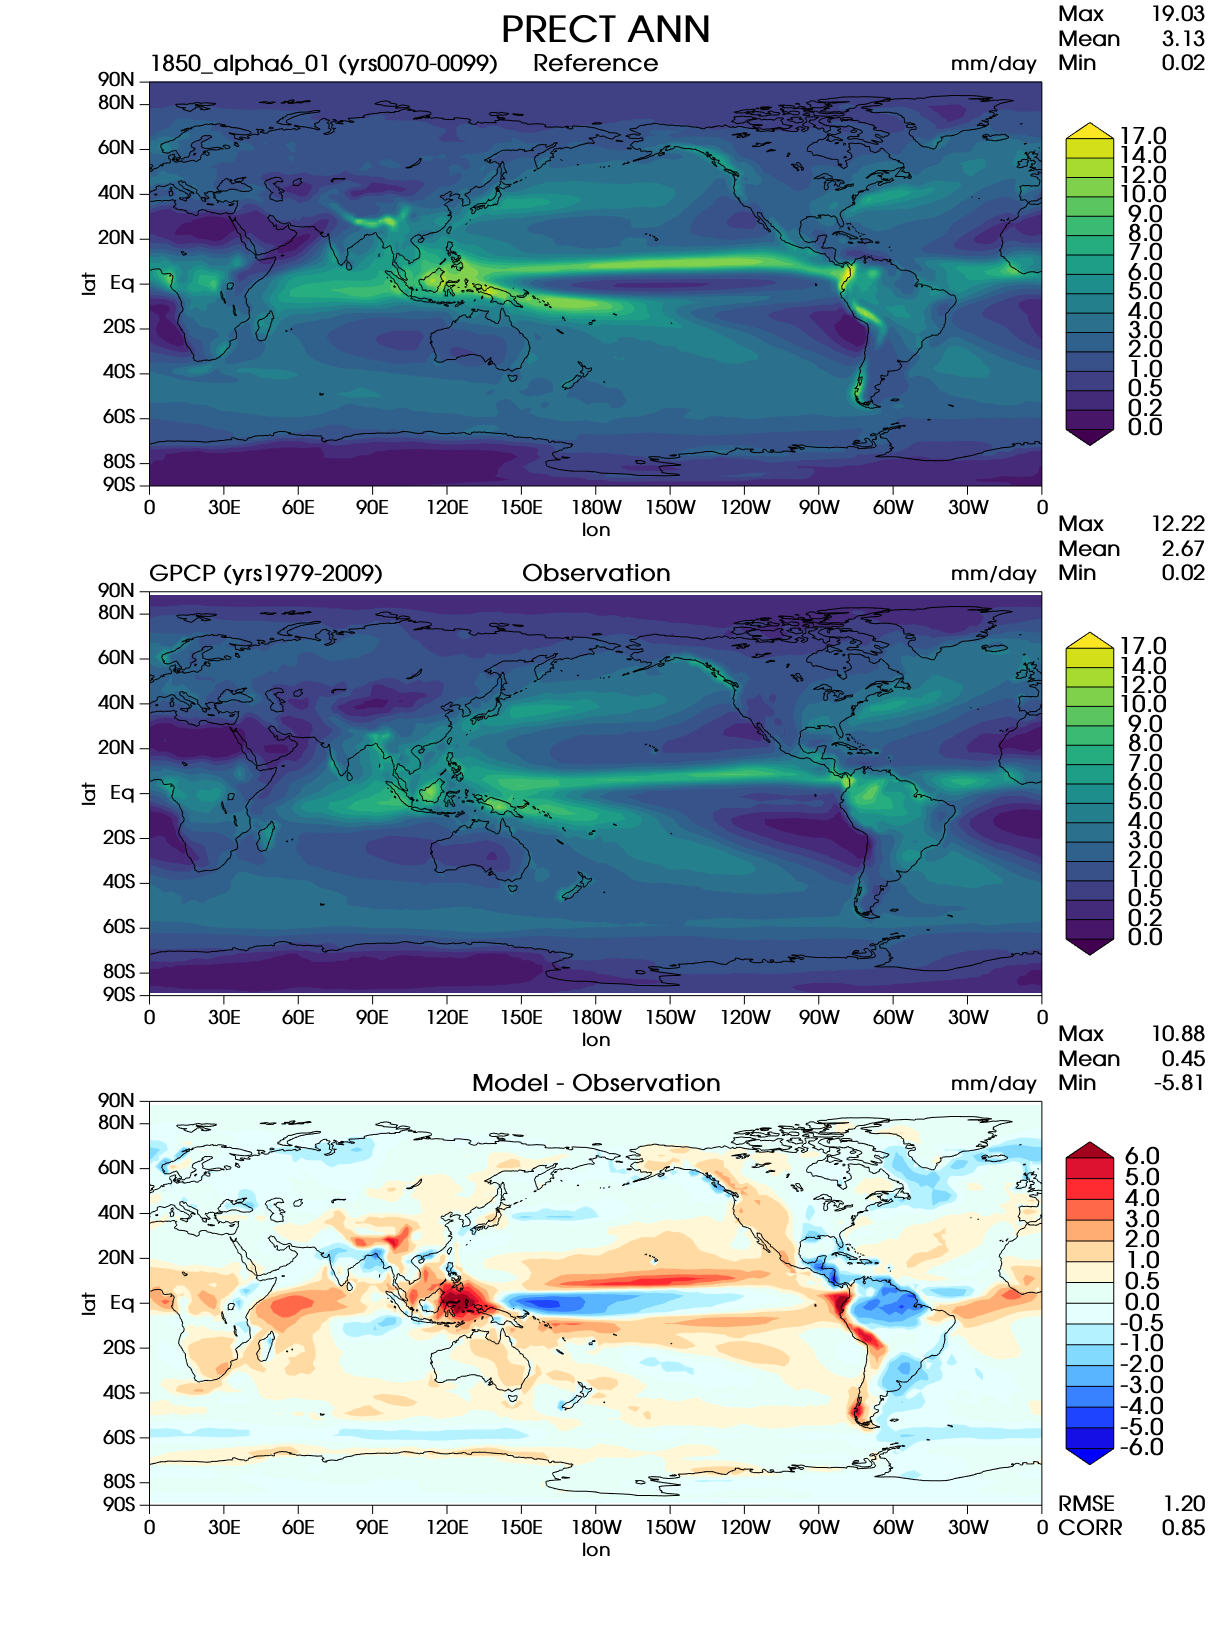
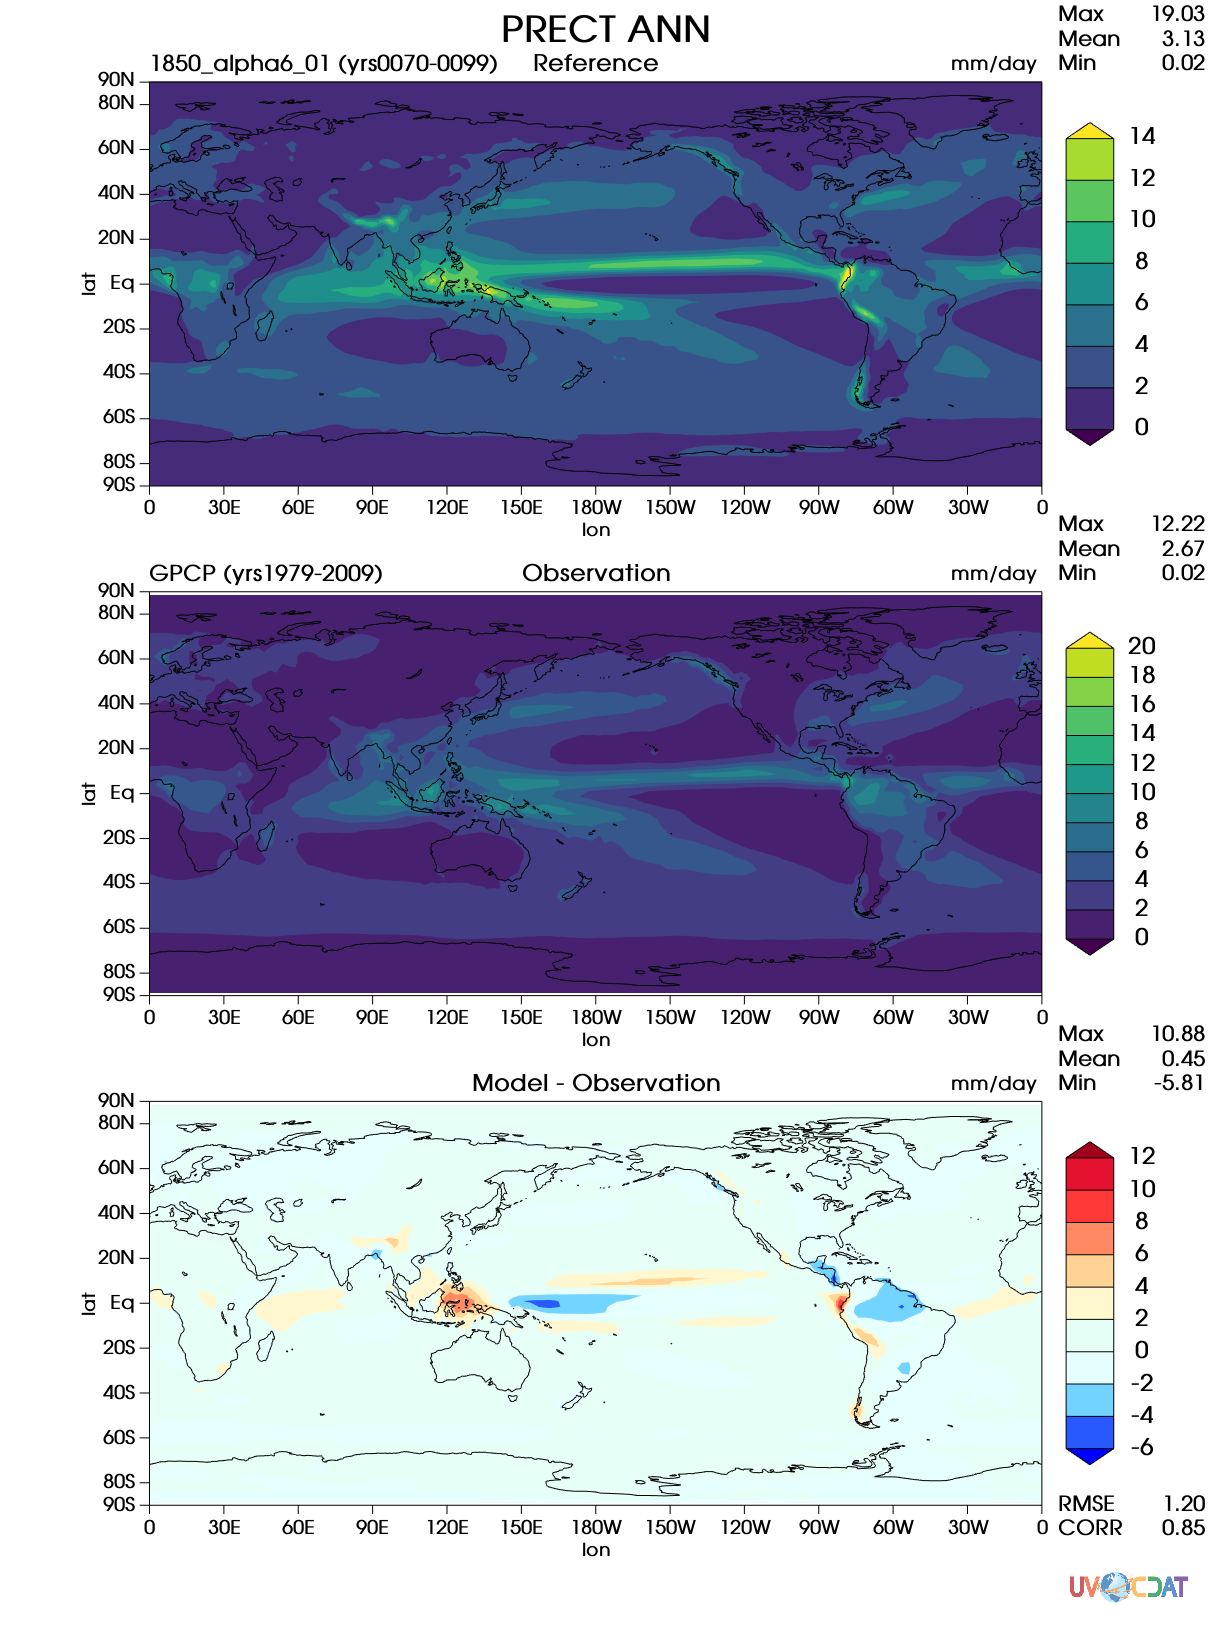
no levels works now.

diff --git a/acme_diags/plotset5/plot_set_5.py b/acme_diags/plotset5/plot_set_5.py
@@ -85,15 +85,15 @@ def plot_rmse_and_corr(canvas, model, obs):
 def set_colormap_of_graphics_method(canvas, parameter_colormap, method):
     if parameter_colormap is not '':
         method.colormap = vcs.getcolormap(parameter_colormap)
-        _fix_levels_on_new_colormap(method)
+        colors = vcs.getcolors(method.levels, colors=range(6, 240))
+        method.fillareacolors = colors
 
-def _fix_levels_on_new_colormap(method):
-    colors = vcs.getcolors(method.levels, colors=range(6, 240))
-    method.fillareacolors = colors
-
-def set_levels_of_graphics_method(method, levels):
+def set_levels_of_graphics_method(method, levels, data):
     if levels != []:
         method.levels = levels
+
+    if method.levels == [[1.0000000200408773e+20, 1.0000000200408773e+20]]:
+        method.levels = vcs.mkscale(data.min(), data.max())
 
 def set_units(ref_or_test, units):
     if units != '':
@@ -138,9 +138,9 @@ def plot(reference, test, reference_regrid, test_regrid, parameter):
     test_isofill = vcs.getisofill('test_isofill')
     diff_isofill = vcs.getisofill('diff_isofill')
 
-    set_levels_of_graphics_method(reference_isofill, parameter.reference_levels)
-    set_levels_of_graphics_method(test_isofill, parameter.test_levels)
-    set_levels_of_graphics_method(diff_isofill, parameter.diff_levels)
+    set_levels_of_graphics_method(reference_isofill, parameter.reference_levels, reference)
+    set_levels_of_graphics_method(test_isofill, parameter.test_levels, test)
+    set_levels_of_graphics_method(diff_isofill, parameter.diff_levels, diff)
 
     if parameter.arrows:
         reference_isofill.ext_1 = True

diff --git a/acme_diags/plotset5/set5parameter.py b/acme_diags/plotset5/set5parameter.py
@@ -21,19 +21,22 @@ main_title = 'PRECT ANN'
 test_name = '1850_alpha6_01 (yrs0070-0099)'
 test_title = 'Reference'
 test_colormap = ''
-test_levels = [0, 0.2, 0.5, 1, 2, 3, 4, 5, 6, 7, 8, 9, 10, 12, 14, 17]
+#test_levels = [0, 0.2, 0.5, 1, 2, 3, 4, 5, 6, 7, 8, 9, 10, 12, 14, 17]
+test_levels = []
 test_units = 'mm/day'
 
 reference_name = 'GPCP (yrs1979-2009)'
 reference_title = 'Observation'
 reference_colormap = ''
-reference_levels = [0, 0.2, 0.5, 1, 2, 3, 4, 5, 6, 7, 8, 9, 10, 12, 14, 17]
+#reference_levels = [0, 0.2, 0.5, 1, 2, 3, 4, 5, 6, 7, 8, 9, 10, 12, 14, 17]
+reference_levels = []
 reference_units = 'mm/day'
 
 diff_name = ''
 diff_title = 'Model - Observation'
 diff_colormap = 'bl_to_darkred'
-diff_levels = [-6, -5, -4, -3, -2, -1, -0.5, 0, 0.5, 1, 2, 3, 4, 5, 6]
+#diff_levels = [-6, -5, -4, -3, -2, -1, -0.5, 0, 0.5, 1, 2, 3, 4, 5, 6]
+diff_levels = []
 diff_units = 'mm/day'
 
 canvas_size_w = 1212

diff --git a/acme_diags/plotset5/make_plot_set_5_json.py b/acme_diags/plotset5/make_plot_set_5_json.py
@@ -146,7 +146,7 @@ isofill.datawc_x1 = 0
 isofill.datawc_x2 = 360
 isofill.datawc_y1 = -90
 isofill.datawc_y2 = 90
-isofill.levels = [0, 0.2, 0.5, 1, 2, 3, 4, 5, 6, 7, 8, 9, 10, 12, 14, 17]
+#isofill.levels = [0, 0.2, 0.5, 1, 2, 3, 4, 5, 6, 7, 8, 9, 10, 12, 14, 17]
 # NOTE: because of the obs and model data files used,
 # there is no 360 degree value, so we use 358 as 0.
 # Same for 0 where we use 2 instead.
@@ -158,8 +158,8 @@ isofill.yticlabels1 = {-90: '90S', -80: '80S', -60: '60S', -40: '40S',
                        80: '80N', 90: '90N'}
 
 # ext_1 and ext_2 are arrows
-isofill.ext_1 = True
-isofill.ext_2 = True
+#isofill.ext_1 = True
+#isofill.ext_2 = True
 isofill.script('plot_set_5_new.json')
 
 isofill = x.createisofill('test_isofill')

diff --git a/acme_diags/plotset5/set5_ANN_PRECT_GPCP_model.py b/acme_diags/plotset5/set5_ANN_PRECT_GPCP_model.py
@@ -80,5 +80,5 @@ elif var == 'T' and plev == 200:
 
 if var == 'T':
     parameter.main_title = ' '.join([var, str(plev), 'mb', season])
-    
+
 plot_set_5.plot(obs_pr, mod_pr, obs_pr_reg, mod_pr_reg, parameter)
